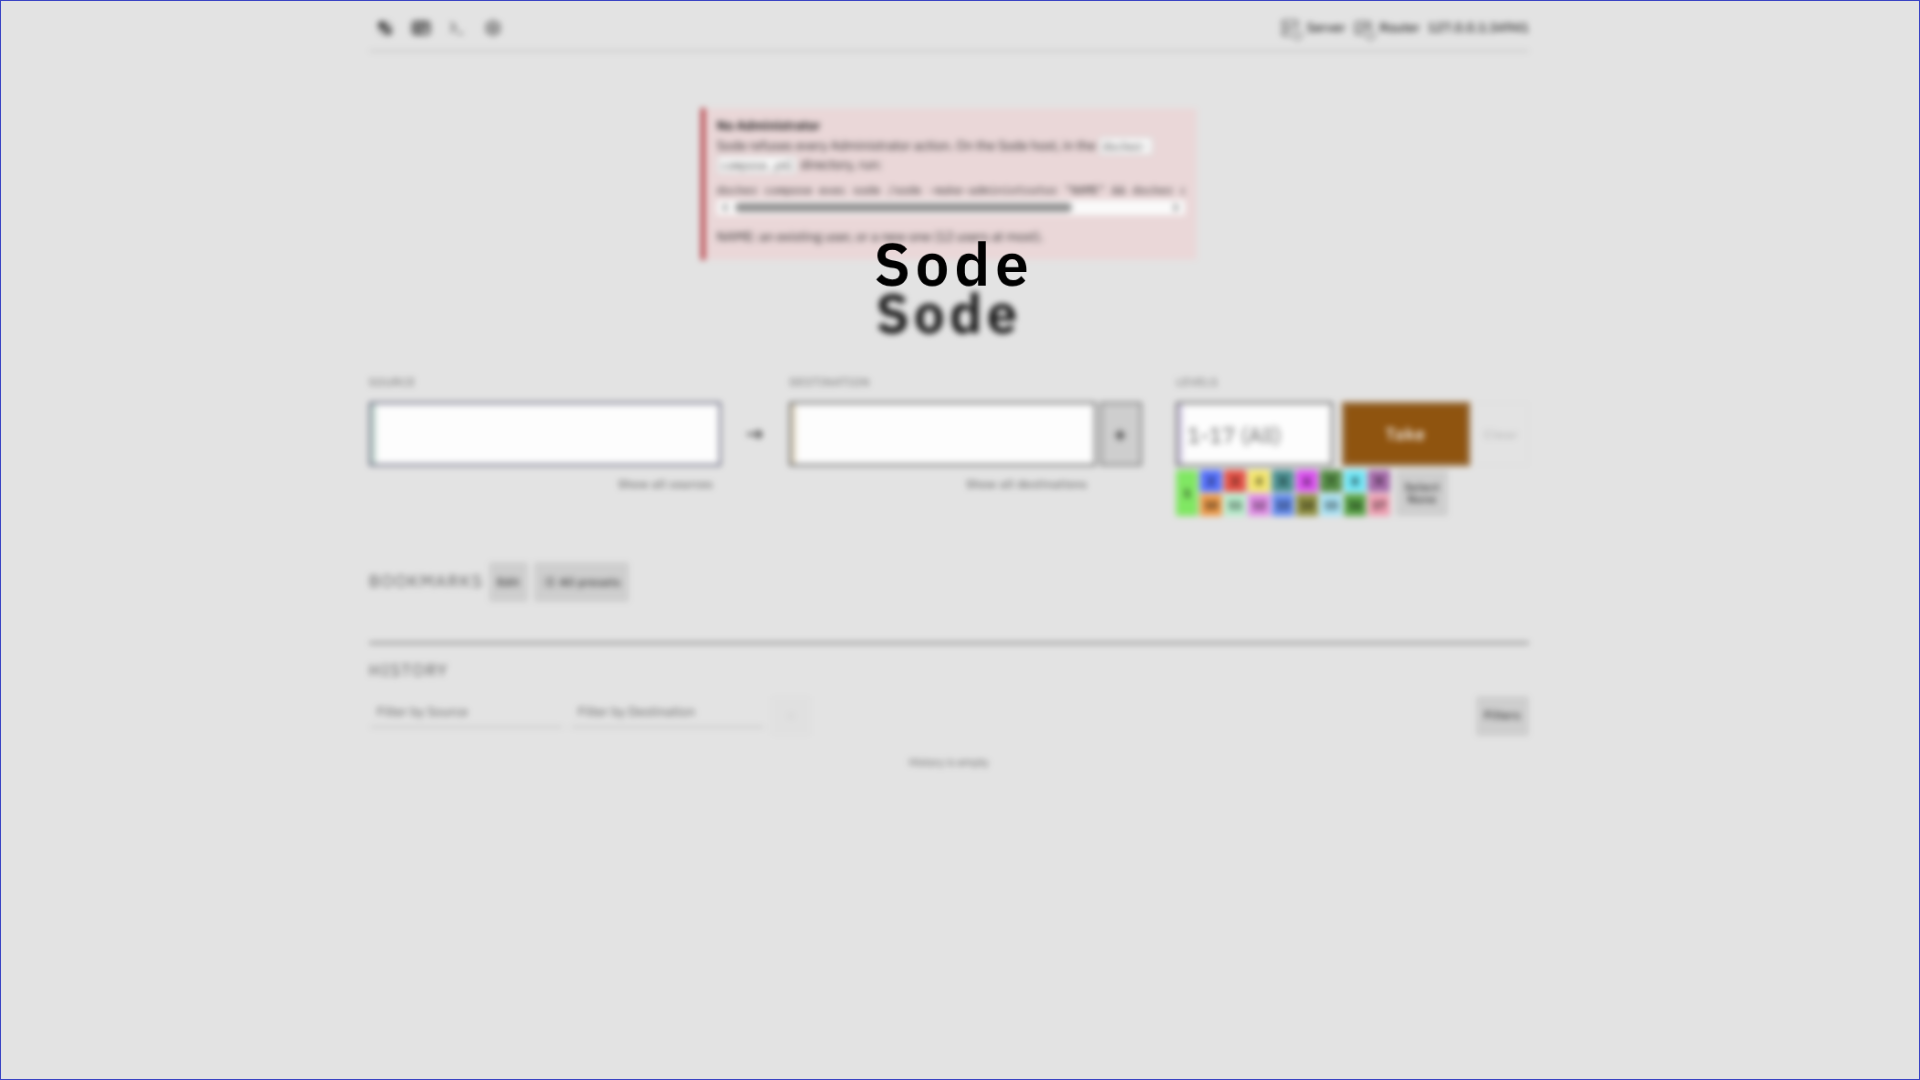
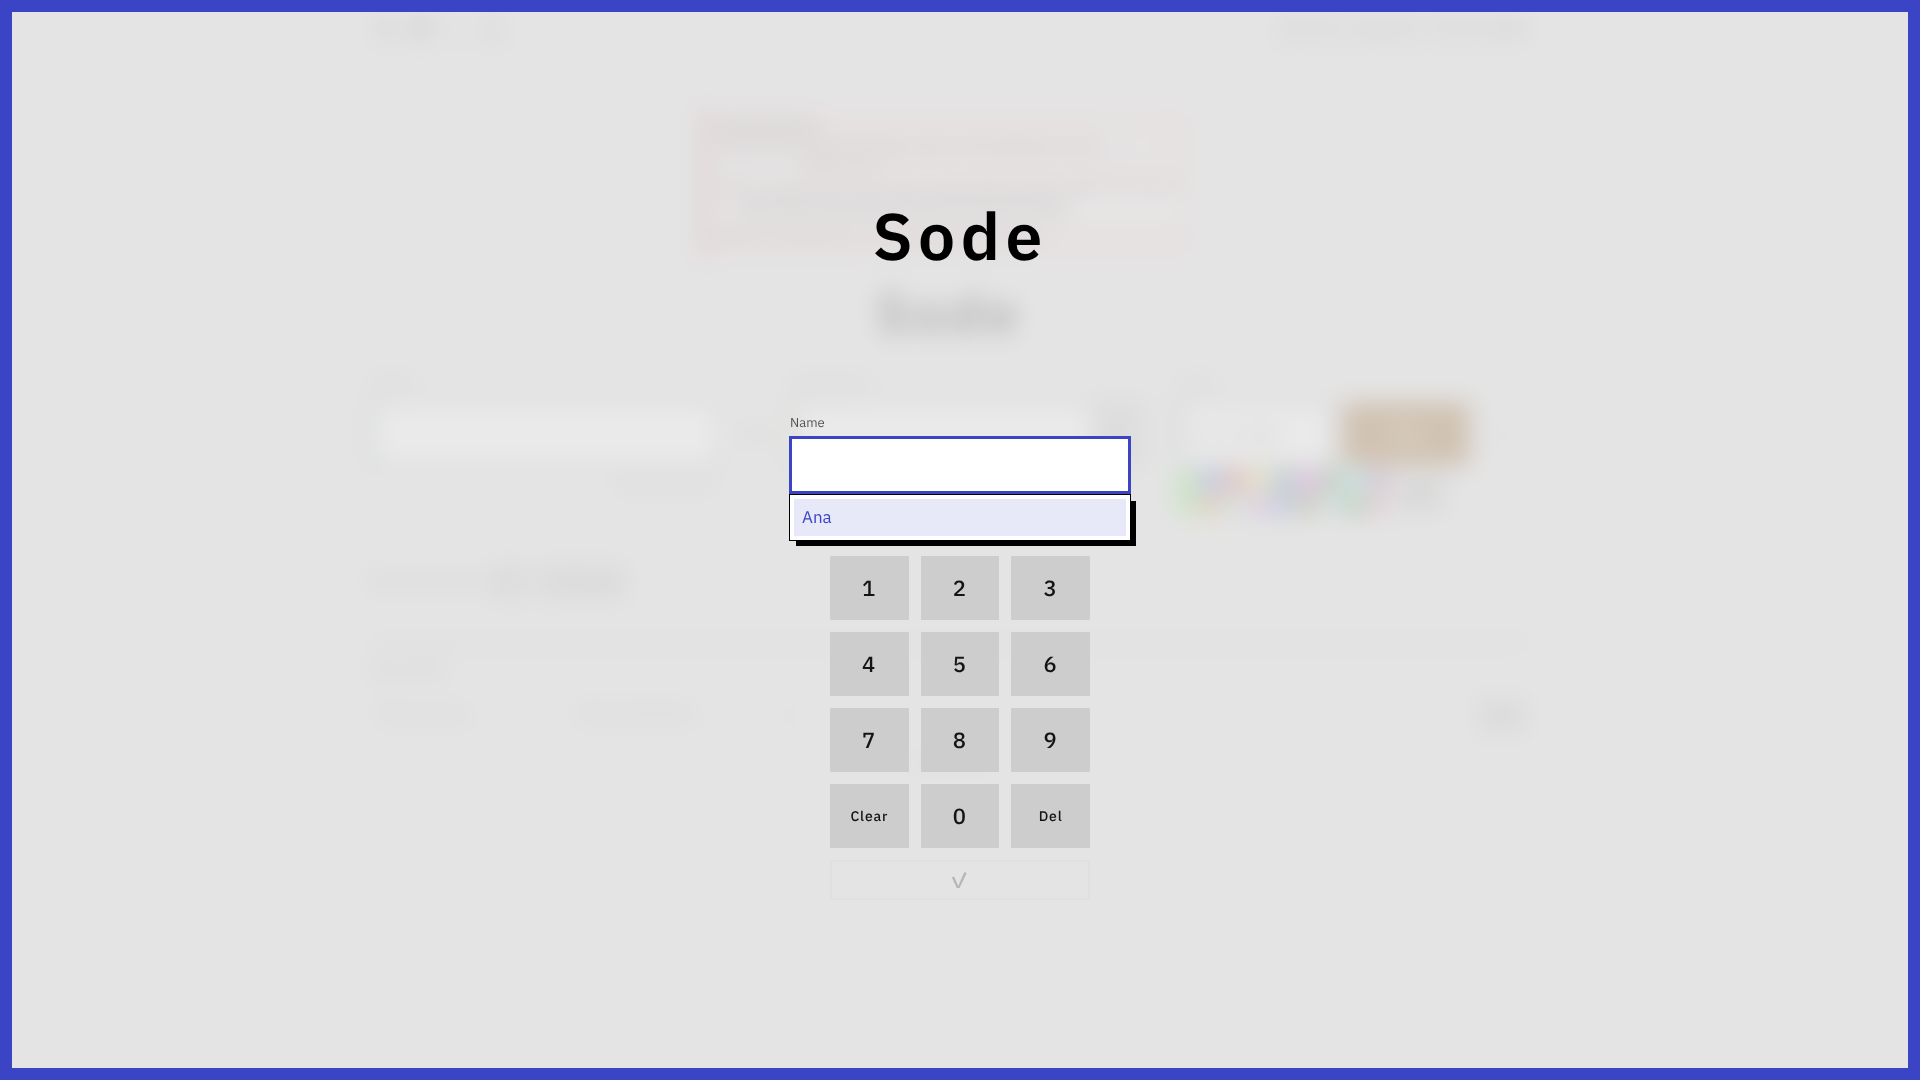
Wait for the Lock pad before the root scale shots; fold the root scale fragments
Claude-Session: https://claude.ai/code/session_01EGyR6KeHGwdd8x7hKiH9Vs

diff --git a/internal/app/rootscale_browser_test.go b/internal/app/rootscale_browser_test.go
@@ -40,12 +40,15 @@ func TestChromeRootScale(t *testing.T) {
 	sizeTo(b, 1920, 1080)
 	b.open(srv.URL + "/")
 	b.waitFor("the pad on load", `!!document.querySelector('.sode-lock.is-on') && !!document.querySelector('.sode-lock__key[data-key="1"]')?.offsetParent`)
+	// The pad body fades in after a delay; a shot taken before that shows an empty Lock.
+	b.waitFor("the pad has faded in", `getComputedStyle(document.querySelector('.sode-lock__body')).opacity === '1' && document.getAnimations().every((a) => a.playState !== 'running')`)
 
 	each := func(page string) {
 		t.Helper()
 		for _, s := range rootSizes {
 			sizeTo(b, s.w, s.h)
 			rootIs(b, fmt.Sprintf("%s at %dx%d", page, s.w, s.h), s.px)
+			b.waitFor("no animation running", `document.getAnimations().every((a) => a.playState !== 'running')`)
 			b.shot(fmt.Sprintf("%s-%dx%d", page, s.w, s.h))
 		}
 	}
